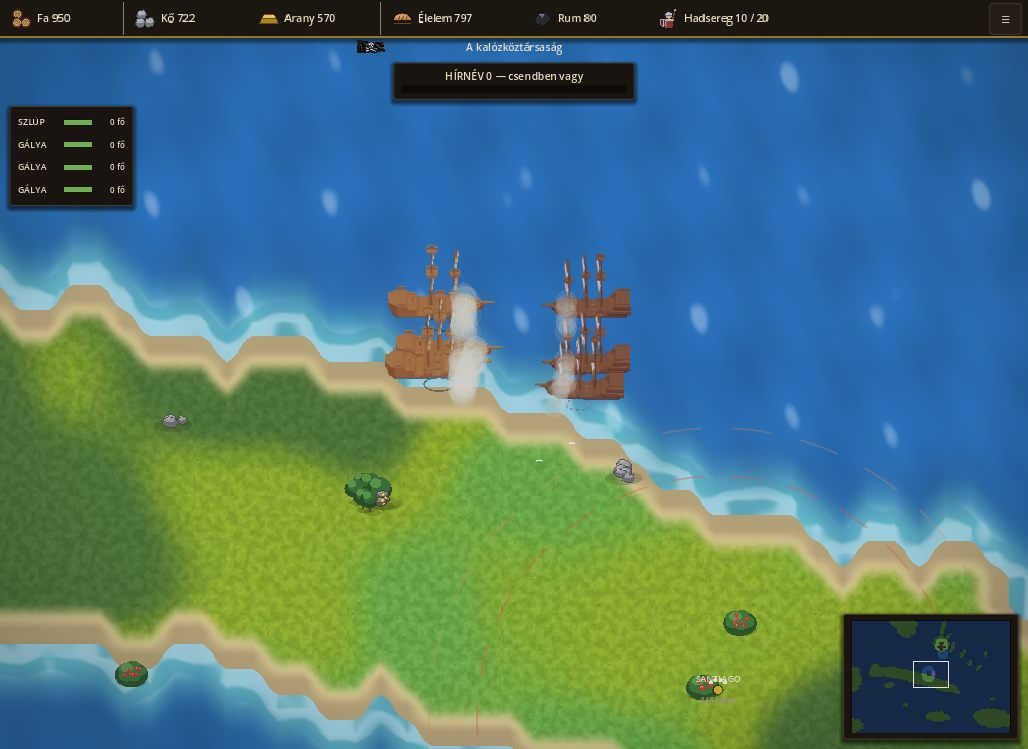
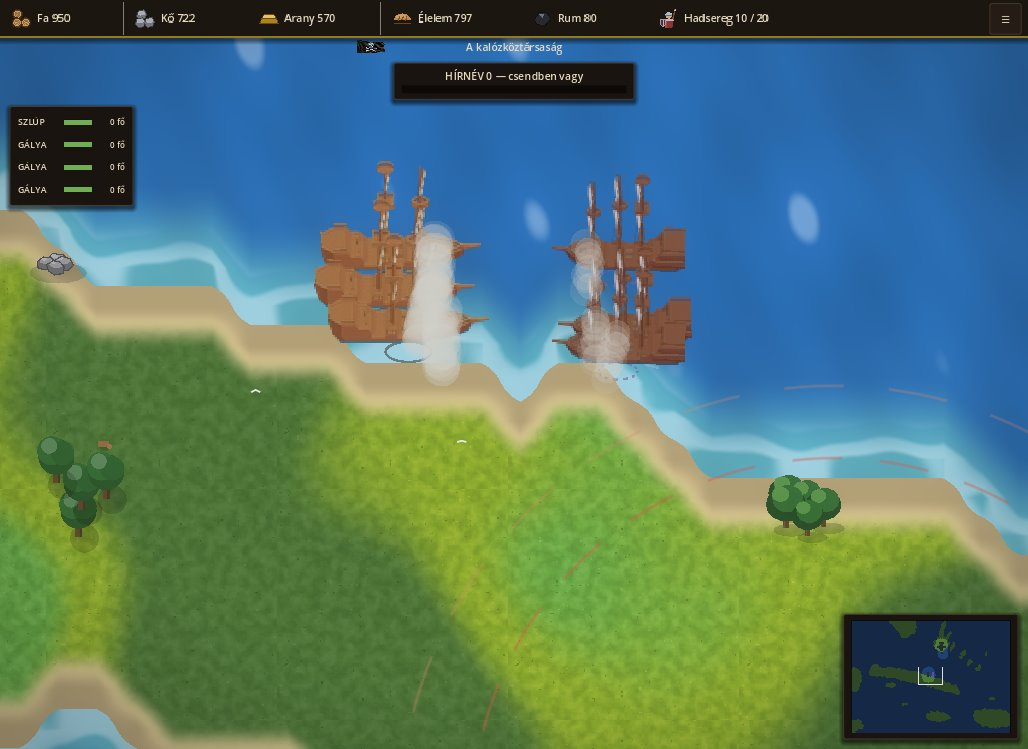
Weboldal: jobb Birodalom-képek (15. századi csata, tengeri ütközet)

diff --git a/docs/index.html b/docs/index.html
@@ -181,7 +181,7 @@
 					<span class="pill" id="ver-heptarchia">…</span>
 				</article>
 				<article class="card game">
-					<button class="shot" data-full="kepek/bir_kozepkor.jpg" aria-label="Birodalom"><img src="kepek/bir_kozepkor.jpg" alt="Birodalom" loading="lazy" width="1028" height="749"></button>
+					<button class="shot" data-full="kepek/bir_csata.jpg" aria-label="Birodalom"><img src="kepek/bir_csata.jpg" alt="Birodalom" loading="lazy" width="1028" height="749"></button>
 					<h3>Birodalom</h3>
 					<span class="tag" data-i18n="games.bir.tag">Valós idejű stratégia, 1400 – 1945</span>
 					<p data-i18n="games.bir.desc">Építs birodalmat öt és fél évszázadon át: gazdaság, hadsereg és nagyhatalmi politika a késő középkortól a modern korig.</p>
@@ -207,7 +207,7 @@
 				<figure><button class="shot" data-full="kepek/hep_anglia.jpg"><img src="kepek/hep_anglia.jpg" alt="Heptarchia" loading="lazy" width="1024" height="720"></button><figcaption data-i18n="shot.hep2">Heptarchia – Wessex, Mercia és Kelet-Anglia</figcaption></figure>
 				<figure><button class="shot" data-full="kepek/hep_rusz.jpg"><img src="kepek/hep_rusz.jpg" alt="A varégok útja" loading="lazy" width="1024" height="720"></button><figcaption data-i18n="shot.hep3">A varégok útja – Novgorodtól Kijevig</figcaption></figure>
 				<figure><button class="shot" data-full="kepek/kard_play.jpg"><img src="kepek/kard_play.jpg" alt="Kard és Mágia" loading="lazy" width="1028" height="642"></button><figcaption data-i18n="shot.kard">Kard és Mágia – válassz hőst</figcaption></figure>
-				<figure><button class="shot" data-full="kepek/bir_kozepkor.jpg"><img src="kepek/bir_kozepkor.jpg" alt="Birodalom" loading="lazy" width="1028" height="749"></button><figcaption data-i18n="shot.bir1">Birodalom – középkori település</figcaption></figure>
+				<figure><button class="shot" data-full="kepek/bir_csata.jpg"><img src="kepek/bir_csata.jpg" alt="Birodalom" loading="lazy" width="1028" height="749"></button><figcaption data-i18n="shot.bir1">Birodalom – csata a 15. században</figcaption></figure>
 				<figure><button class="shot" data-full="kepek/bir_modern.jpg"><img src="kepek/bir_modern.jpg" alt="Birodalom" loading="lazy" width="1028" height="749"></button><figcaption data-i18n="shot.bir2">Birodalom – a világháborúk kora</figcaption></figure>
 				<figure><button class="shot" data-full="kepek/bir_tenger.jpg"><img src="kepek/bir_tenger.jpg" alt="Birodalom" loading="lazy" width="1028" height="749"></button><figcaption data-i18n="shot.bir3">Birodalom – tengeri csata a kalózkorban</figcaption></figure>
 			</div>
@@ -272,7 +272,7 @@
 			"shots.title": "Screenshots", "shots.sub": "Click a picture to enlarge it.",
 			"shot.hep1": "Heptarchia – the British Isles in 790", "shot.hep2": "Heptarchia – Wessex, Mercia and East Anglia",
 			"shot.hep3": "The Varangian Road – from Novgorod to Kiev", "shot.kard": "Kard és Mágia – choose your hero",
-			"shot.bir1": "Birodalom – a medieval settlement", "shot.bir2": "Birodalom – the age of the world wars",
+			"shot.bir1": "Birodalom – a battle in the 15th century", "shot.bir2": "Birodalom – the age of the world wars",
 			"shot.bir3": "Birodalom – a naval battle in the age of pirates",
 			"dlc.title": "Add-ons for Heptarchia",
 			"dlc.sub": "They are compatible with each other and with the base game – play any combination. You buy on Gumroad; the add-on is tied to your ParthLauncher account.",
@@ -303,7 +303,7 @@
 			"shots.title": "Bilder aus den Spielen", "shots.sub": "Klicke auf ein Bild, um es zu vergrößern.",
 			"shot.hep1": "Heptarchia – die Britischen Inseln im Jahr 790", "shot.hep2": "Heptarchia – Wessex, Mercia und Ostanglien",
 			"shot.hep3": "Der Warägerweg – von Nowgorod bis Kiew", "shot.kard": "Kard és Mágia – wähle deinen Helden",
-			"shot.bir1": "Birodalom – eine mittelalterliche Siedlung", "shot.bir2": "Birodalom – die Zeit der Weltkriege",
+			"shot.bir1": "Birodalom – eine Schlacht im 15. Jahrhundert", "shot.bir2": "Birodalom – die Zeit der Weltkriege",
 			"shot.bir3": "Birodalom – eine Seeschlacht im Zeitalter der Piraten",
 			"dlc.title": "Erweiterungen für Heptarchia",
 			"dlc.sub": "Sie sind untereinander und mit dem Grundspiel kompatibel – in jeder Kombination spielbar. Gekauft wird über Gumroad; die Erweiterung gehört zu deinem ParthLauncher-Konto.",
